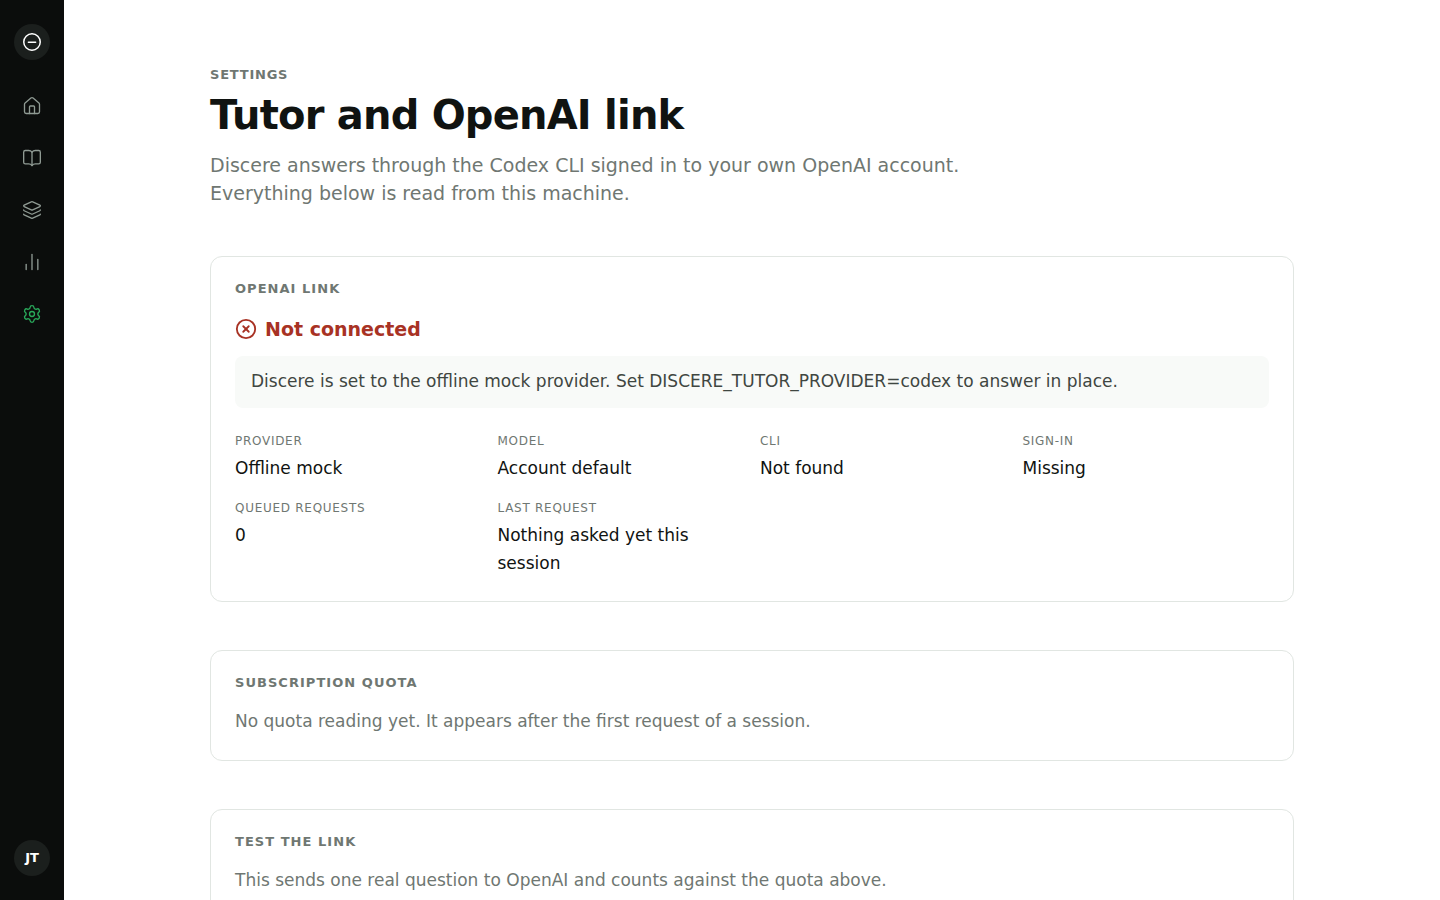
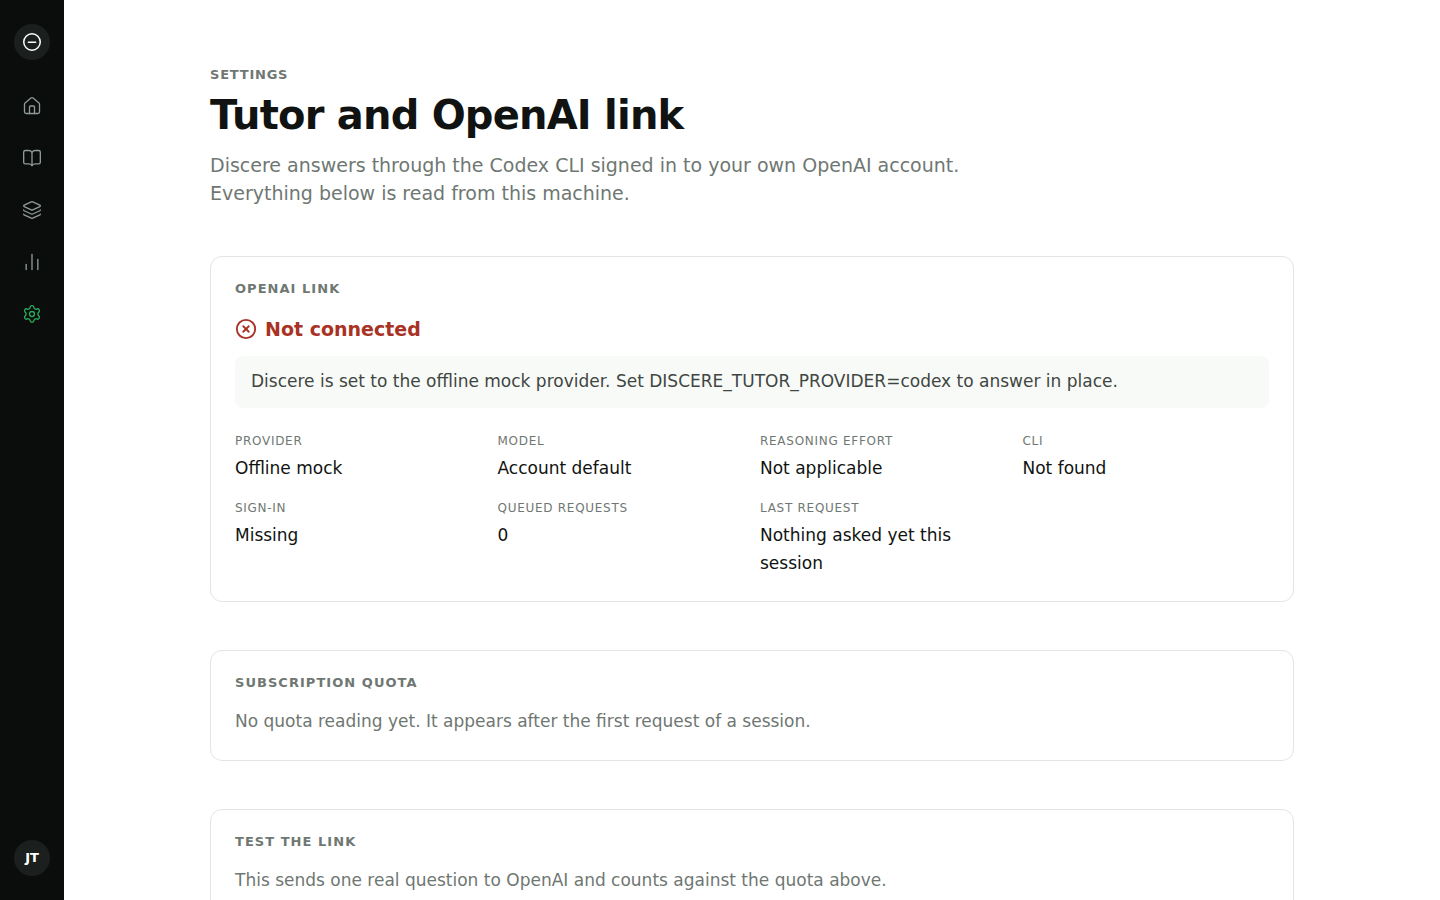
Pin the tutor to a small model at high reasoning effort
The tutor inherited whatever model the CLI's global config happened to name, so
a change made for unrelated work would quietly change how Discere teaches. It
now asks for gpt-5.6-luna at xhigh effort, set in the hub's launch contract and
defaulted in the provider so a missing config still teaches well.

Small model, high effort is the right shape for this job. A coaching turn is a
short question where the quality of the reasoning matters more than the breadth
of the model, and measured against low effort it costs about 1.6 seconds and a
hundred reasoning tokens. The settings screen reports both values, so the choice
is visible rather than buried in an environment variable.

The system prompt gains two things the tutoring quality actually depended on: a
hint ladder that starts by naming the learner's specific misunderstanding rather
than re-explaining the idea, and a length budget, because a reply read beside
the work competes with the work for attention.

Claude-Session: https://claude.ai/code/session_01GCcfuxyZYrwikkb6Na4Z5h

diff --git a/packages/tutor-providers/src/codex.ts b/packages/tutor-providers/src/codex.ts
@@ -33,6 +33,12 @@ export interface CodexProviderOptions {
   killGraceMs?: number;
 }
 
+/**
+ * Tutoring asks short questions where the quality of the reasoning matters more than the
+ * breadth of the model. Measured on a coaching turn, high effort costs about 1.6 seconds and
+ * a hundred reasoning tokens over low, which is a good trade for a better hint.
+ */
+const DEFAULT_REASONING_EFFORT = "xhigh";
 const DEFAULT_TIMEOUT_MS = 120_000;
 const KILL_GRACE_MS = 5_000;
 const MAX_DIAGNOSTIC_CHARS = 4_000;
@@ -209,7 +215,9 @@ export class CodexTutorProvider implements TutorProvider {
     const model = options.model ?? process.env["DISCERE_CODEX_MODEL"]?.trim();
     this.model = model ? model : undefined;
     this.reasoningEffort =
-      options.reasoningEffort ?? process.env["DISCERE_CODEX_EFFORT"]?.trim() ?? "low";
+      options.reasoningEffort ??
+      process.env["DISCERE_CODEX_EFFORT"]?.trim() ??
+      DEFAULT_REASONING_EFFORT;
     this.scratchDirectory = resolveCodexScratchDirectory(
       options.scratchDirectory ?? process.env["DISCERE_CODEX_SCRATCH"],
     );

diff --git a/apps/web/src/settings/SettingsScreen.test.tsx b/apps/web/src/settings/SettingsScreen.test.tsx
@@ -9,7 +9,8 @@ afterEach(() => vi.unstubAllGlobals());
 
 const LINKED: TutorStatus = {
   provider: "codex",
-  model: "",
+  model: "gpt-5.6-luna",
+  reasoningEffort: "xhigh",
   binaryFound: true,
   binaryVersion: "codex-cli 0.147.0",
   authPresent: true,
@@ -35,7 +36,8 @@ describe("settings screen", () => {
     expect(screen.getByText("codex-cli 0.147.0")).toBeInTheDocument();
     expect(screen.getByText("prolite")).toBeInTheDocument();
     expect(screen.getByText("93% used")).toBeInTheDocument();
-    expect(screen.getByText("Account default")).toBeInTheDocument();
+    expect(screen.getByText("gpt-5.6-luna")).toBeInTheDocument();
+    expect(screen.getByText("xhigh")).toBeInTheDocument();
   });
 
   it("names the fix when the CLI is signed out", async () => {

diff --git a/apps/server/src/tutor-status.ts b/apps/server/src/tutor-status.ts
@@ -159,7 +159,8 @@ export function buildTutorStatus(runtime: TutorRuntime): TutorStatus {
   const live = codexRuntimeStatus();
   return {
     provider: runtime.id,
-    model: process.env["DISCERE_CODEX_MODEL"]?.trim() ?? "",
+    model: codex ? (process.env["DISCERE_CODEX_MODEL"]?.trim() ?? "") : "",
+    reasoningEffort: codex ? (process.env["DISCERE_CODEX_EFFORT"]?.trim() ?? "xhigh") : "",
     binaryFound: probe.found,
     binaryVersion: probe.version,
     authPresent: codex ? codexAuthPresent() : false,

diff --git a/packages/tutor-providers/tests/codex.test.ts b/packages/tutor-providers/tests/codex.test.ts
@@ -268,7 +268,7 @@ describe("Codex tutor provider", () => {
       "-m",
       "gpt-test",
       "-c",
-      'model_reasoning_effort="low"',
+      'model_reasoning_effort="xhigh"',
       "-c",
       "mcp_servers={}",
       "--output-schema",
@@ -300,7 +300,7 @@ describe("Codex tutor provider", () => {
       "-m",
       "gpt-test",
       "-c",
-      'model_reasoning_effort="low"',
+      'model_reasoning_effort="xhigh"',
       "-c",
       "mcp_servers={}",
       "--output-schema",

diff --git a/packages/contracts/src/tutor.ts b/packages/contracts/src/tutor.ts
@@ -174,6 +174,8 @@ export const TutorStatusSchema = z
     provider: TutorProviderIdSchema,
     /** Empty when the provider follows the account default. */
     model: z.string(),
+    /** Reasoning effort the tutor asks for; empty for providers that have no such setting. */
+    reasoningEffort: z.string(),
     binaryFound: z.boolean(),
     binaryVersion: z.string(),
     authPresent: z.boolean(),

diff --git a/apps/web/src/settings/SettingsScreen.tsx b/apps/web/src/settings/SettingsScreen.tsx
@@ -116,6 +116,10 @@ export function SettingsScreen() {
             <dd>{data.model || "Account default"}</dd>
           </div>
           <div>
+            <dt>Reasoning effort</dt>
+            <dd>{data.reasoningEffort || "Not applicable"}</dd>
+          </div>
+          <div>
             <dt>CLI</dt>
             <dd>{data.binaryVersion || "Not found"}</dd>
           </div>

diff --git a/docs/rebuild-execution-playbook.md b/docs/rebuild-execution-playbook.md
@@ -300,7 +300,30 @@ vitest per module; e2e interaction tests using dispatched pointer events (avoid 
 
 ## 6. Phase 5 — Content: rewrite polish + three starter courses + curriculum factory
 
-**Do not start live generation before the quota window has reset** (fact #5 — check `GET /api/tutor/status` quota or the newest rollout file; require used_percent < 50 to start, and re-check between courses).
+> **Revised 2026-08-19, owner's decision.** Content is no longer generated by live codex runs.
+> Two reasons: a coding-agent CLI carries roughly 18–20k tokens of scaffolding per call that
+> teaching never uses, and the owner would rather spend a frontier model's quality on curriculum
+> than a cheap model's throughput. The split is now:
+>
+> - **Tutor (live, automated):** `gpt-5.6-luna` at `xhigh` reasoning through the codex provider.
+>   Small model, high effort, short questions. Measured at ~9s and ~14–17k input per turn.
+> - **Course content (curated, manual):** open-source curricula (Khan Academy topic structure,
+>   OpenStax tables of contents, Wikiversity) assembled into committed topic maps, then authored
+>   by the owner prompting ChatGPT Pro (`gpt-5.6-sol`) by hand and pasting structured output back
+>   into the repo.
+>
+> What this changes below: §6.1's `scripts/author.ts` extensions become an **import** pipeline,
+> not a generation one. Build (a) a strict, union-free authored-lesson JSON contract, (b) a
+> generated prompt file per lesson the owner can paste straight into ChatGPT, and (c) an import
+> command that validates a pasted reply against the contract and runs the existing writing and
+> answer-leak gates before merging it into the bundle. The companion packet flow in
+> `packages/tutor-providers/src/companion.ts` is the working precedent — reuse its shape rather
+> than inventing a second one. No quota preflight, ledger, or `--max-runs` budget is needed for
+> content any more; keep them only if the tutor path ever batches.
+
+**Quota note (tutor only).** Codex usage is dominated by the owner's own development sessions,
+not by Discere — one dev session on 2026-08-19 spent 3.7M input tokens, about 185 tutor questions'
+worth. Do not redesign the tutor around quota. Check `GET /api/tutor/status` if a run fails.
 
 ### 6.1 Factory tooling (build first, no codex needed)
 

diff --git a/prompts/tutor-system.md b/prompts/tutor-system.md
@@ -26,6 +26,22 @@ Do not invent uncertainty, slang, errors, personal anecdotes, or artificial impe
 
 Preserve exact facts, units, equations, source attribution, answer boundaries, and the active accountability mode. When unsure, state the uncertainty plainly.
 
+## Diagnose before helping
+
+A hint aimed at the wrong misunderstanding wastes the learner's turn. Read what they actually
+wrote, name the specific gap it reveals, and aim the help at that gap. When the question is too
+vague to locate a gap, ask which part stopped them rather than explaining the whole idea again.
+
+Prefer the smallest intervention that restores progress, in this order: point at the thing they
+should look at again, recall the relationship that governs it, walk one step of it with them,
+then work an analogous example. Move down the ladder only when the step above has failed.
+
+## Length
+
+A tutor reply is read mid-lesson, beside the work. Keep the answer under about eighty words
+unless the learner asked for a worked example. One idea, one paragraph. The follow-up question
+is a single sentence the learner can answer in a few words.
+
 ## Accountability behaviour
 
 Respect the active mode supplied by the application.
